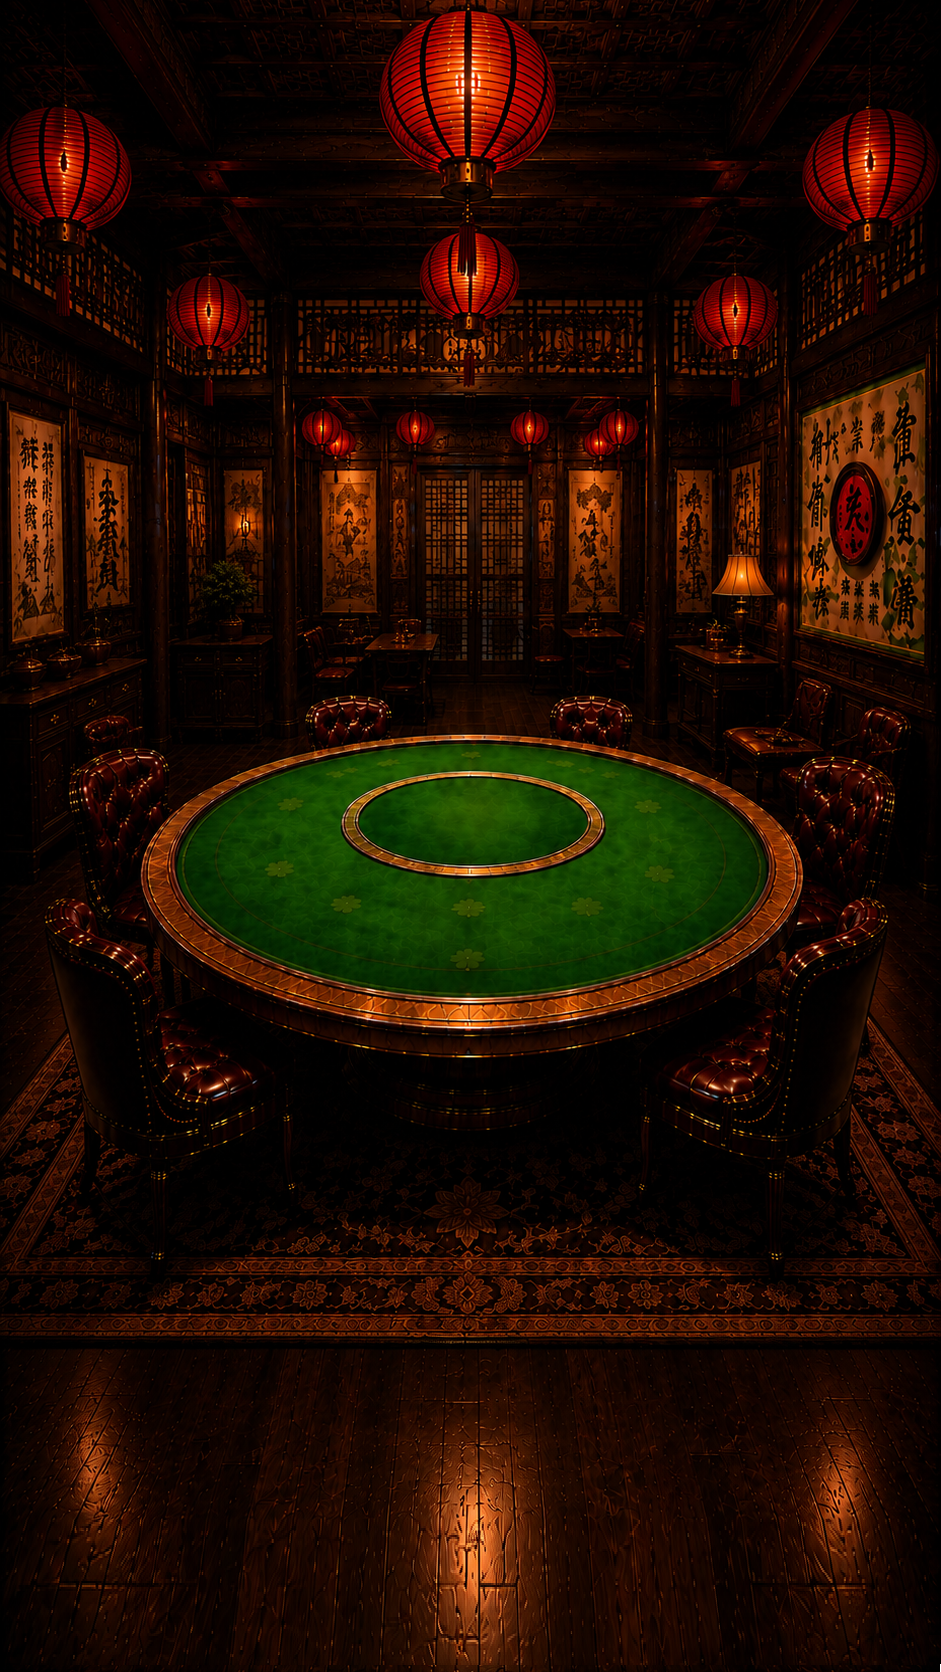
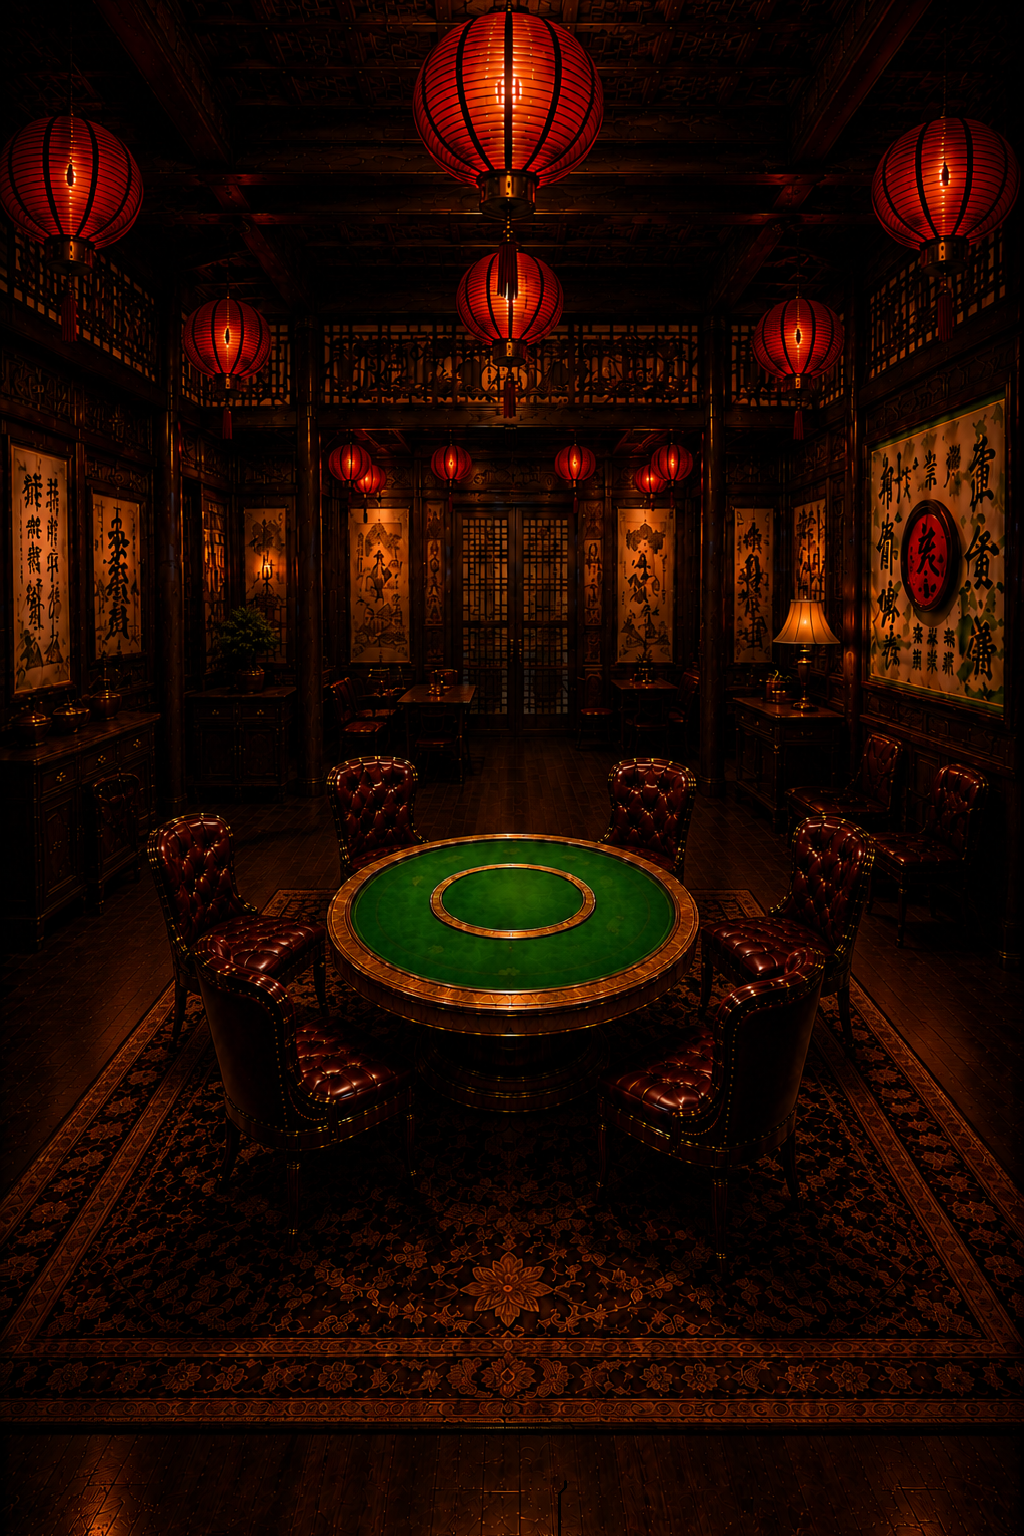
update

diff --git a/src/styles/gameplay/gameplay.portrait.css b/src/styles/gameplay/gameplay.portrait.css
@@ -971,7 +971,7 @@ html[data-device="mobile"][data-orientation="portrait"] .app-shell--gameplay {
   --pg-cup-filter: drop-shadow(0 9px 11px rgba(0, 0, 0, .34));
 
   --pg-cup-2-width: 46%;
-  --pg-cup-2-1-left: 4%;
+  --pg-cup-2-1-left: 5%;
   --pg-cup-2-1-top: 34%;
   --pg-cup-2-1-transform: none;
   --pg-cup-2-2-left: 50%;
@@ -3567,16 +3567,16 @@ html[data-device="mobile"][data-orientation="portrait"] .app-shell--gameplay .ga
   --pg-current-bid-header-width: 200px;
   --pg-current-bid-header-font: 19px;
 
-  --pg-current-bid-main-left: 31px;
+  --pg-current-bid-main-left: 50px;
   --pg-current-bid-main-top: 62px;
   --pg-current-bid-main-width: 184px;
   --pg-current-bid-main-height: 58px;
   --pg-current-bid-main-gap: 12px;
 
-  --pg-current-bid-total-font: 40px;
-  --pg-current-bid-die-size: 45px;
+  --pg-current-bid-total-font: 70px;
+  --pg-current-bid-die-size: 65px;
 
-  --pg-current-bid-joker-left: 120px;
+  --pg-current-bid-joker-left: 150px;
   --pg-current-bid-joker-top: 139px;
   --pg-current-bid-joker-width: 124px;
   --pg-current-bid-joker-height: 38px;
@@ -3594,10 +3594,10 @@ html[data-device="mobile"][data-orientation="portrait"] .app-shell--gameplay .ga
 
   /* 2 PLAYERS */
   --pg-cup-2-width: 13%;
-  --pg-cup-2-1-left: 45%;
+  --pg-cup-2-1-left: 40%;
   --pg-cup-2-1-top: 40%;
   --pg-cup-2-1-transform: none;
-  --pg-cup-2-2-left: 45%;
+  --pg-cup-2-2-left: 40%;
   --pg-cup-2-2-top: 60%;
   --pg-cup-2-2-transform: none;
 

diff --git a/src/styles/gameplay/gameplay.controls.css b/src/styles/gameplay/gameplay.controls.css
@@ -32,14 +32,14 @@ html[data-device='mobile'][data-orientation='portrait'] .app-shell--gameplay .ga
   /* Current Bid */
   --pg-current-bid-left: 250px;
   --pg-current-bid-top: 200px;
-  --pg-current-bid-width: 245px;
-  --pg-current-bid-height: 180px;
+  --pg-current-bid-width: 306.25px;
+  --pg-current-bid-height: 225px;
 
   /* Cups */
-  --pg-cups-left: 140px;
-  --pg-cups-top: 446px;
-  --pg-cups-width: 440px;
-  --pg-cups-height: 255px;
+  --pg-cups-left: 160px;
+  --pg-cups-top: 576px;
+  --pg-cups-width: 420px;
+  --pg-cups-height: 225px;
 }
 
 /* =========================================================